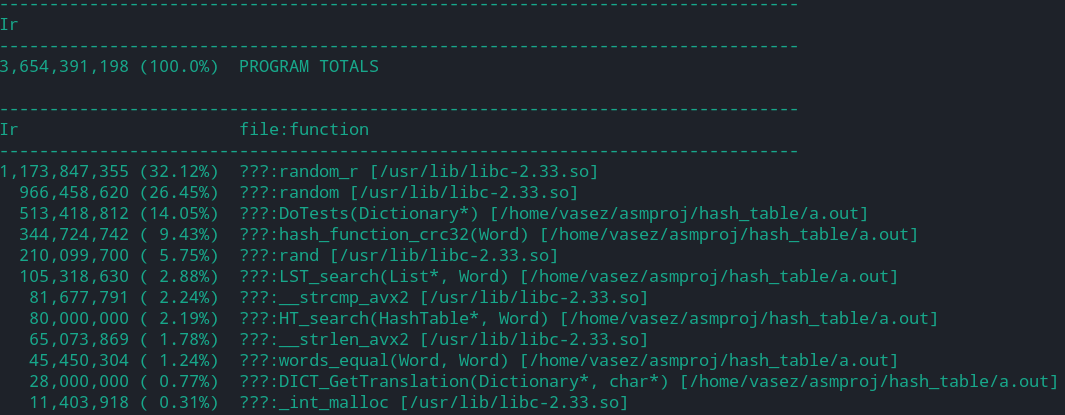
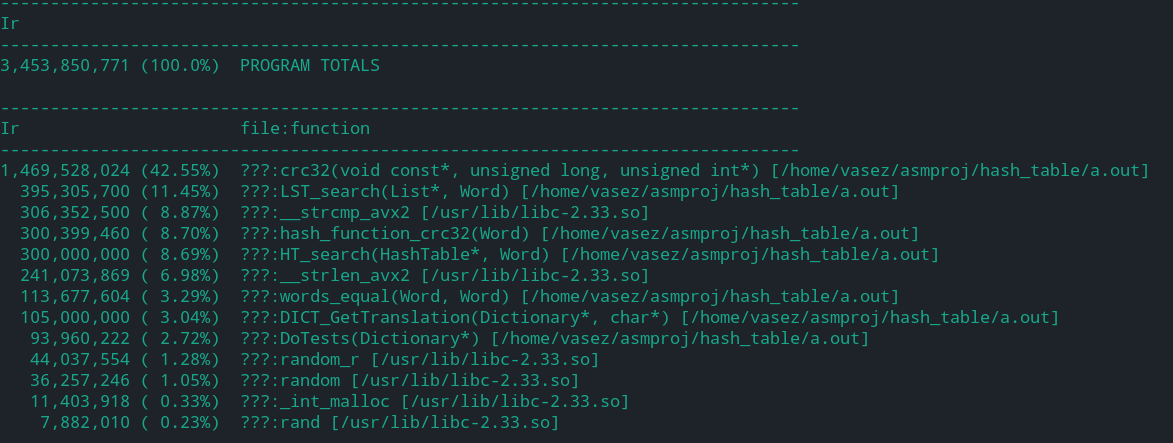
yeah

diff --git a/hash_functions.cpp b/hash_functions.cpp
@@ -1,5 +1,5 @@
 #include "hash_functions.h"
-#include <nmmintrin.h>
+//#include <nmmintrin.h>
 
 
 size_t ror(size_t x);
@@ -63,7 +63,7 @@ size_t hash_function_rol(Word word) {
 //   return r ^ (uint32_t)0xFF000000L;
 // }
 
-// const uint32_t crc_table[256] = {3523407757,2768625435,1007455905,1259060791,3580832660,2724731650,996231864,1281784366,3705235391,2883475241,852952723,1171273221,3686048678,2897449776,901431946,1119744540,3484811241,3098726271,565944005,1455205971,3369614320,3219065702,651582172,1372678730,3245242331,3060352845,794826487,1483155041,3322131394,2969862996,671994606,1594548856,3916222277,2657877971,123907689,1885708031,3993045852,2567322570,1010288,1997036262,3887548279,2427484129,163128923,2126386893,3772416878,2547889144,248832578,2043925204,4108050209,2212294583,450215437,1842515611,4088798008,2226203566,498629140,1790921346,4194326291,2366072709,336475711,1661535913,4251816714,2322244508,325317158,1684325040,2766056989,3554254475,1255198513,1037565863,2746444292,3568589458,1304234792,985283518,2852464175,3707901625,1141589763,856455061,2909332022,3664761504,1130791706,878818188,3110715001,3463352047,1466425173,543223747,3187964512,3372436214,1342839628,655174618,3081909835,3233089245,1505515367,784033777,2967466578,3352871620,1590793086,701932520,2679148245,3904355907,1908338681,112844655,2564639436,4024072794,1993550816,30677878,2439710439,3865851505,2137352139,140662621,2517025534,3775001192,2013832146,252678980,2181537457,4110462503,1812594589,453955339,2238339752,4067256894,1801730948,476252946,2363233923,4225443349,1657960367,366298937,2343686810,4239843852,1707062198,314082080,1069182125,1220369467,3518238081,2796764439,953657524,1339070498,3604597144,2715744526,828499103,1181144073,3748627891,2825434405,906764422,1091244048,3624026538,2936369468,571309257,1426738271,3422756325,3137613171,627095760,1382516806,3413039612,3161057642,752284923,1540473965,3268974039,3051332929,733688034,1555824756,3316994510,2998034776,81022053,1943239923,3940166985,2648514015,62490748,1958656234,3988253008,2595281350,168805463,2097738945,3825313147,2466682349,224526414,2053451992,3815530850,2490061300,425942017,1852075159,4151131437,2154433979,504272920,1762240654,4026595636,2265434530,397988915,1623188645,4189500703,2393998729,282398762,1741824188,4275794182,2312913296,1231433021,1046551979,2808630289,3496967303,1309403428,957143474,2684717064,3607279774,1203610895,817534361,2847130659,3736401077,1087398166,936857984,2933784634,3654889644,1422998873,601230799,3135200373,3453512931,1404893504,616286678,3182598252,3400902906,1510651243,755860989,3020215367,3271812305,1567060338,710951396,3010007134,3295551688,1913130485,84884835,2617666777,3942734927,1969605100,40040826,2607524032,3966539862,2094237127,198489425,2464015595,3856323709,2076066270,213479752,2511347954,3803648100,1874795921,414723335,2175892669,4139142187,1758648712,534112542,2262612132,4057696306,1633981859,375629109,2406151311,4167943193,1711886778,286155052,2282172566,4278190080};
+const uint32_t crc_table[256] = {3523407757,2768625435,1007455905,1259060791,3580832660,2724731650,996231864,1281784366,3705235391,2883475241,852952723,1171273221,3686048678,2897449776,901431946,1119744540,3484811241,3098726271,565944005,1455205971,3369614320,3219065702,651582172,1372678730,3245242331,3060352845,794826487,1483155041,3322131394,2969862996,671994606,1594548856,3916222277,2657877971,123907689,1885708031,3993045852,2567322570,1010288,1997036262,3887548279,2427484129,163128923,2126386893,3772416878,2547889144,248832578,2043925204,4108050209,2212294583,450215437,1842515611,4088798008,2226203566,498629140,1790921346,4194326291,2366072709,336475711,1661535913,4251816714,2322244508,325317158,1684325040,2766056989,3554254475,1255198513,1037565863,2746444292,3568589458,1304234792,985283518,2852464175,3707901625,1141589763,856455061,2909332022,3664761504,1130791706,878818188,3110715001,3463352047,1466425173,543223747,3187964512,3372436214,1342839628,655174618,3081909835,3233089245,1505515367,784033777,2967466578,3352871620,1590793086,701932520,2679148245,3904355907,1908338681,112844655,2564639436,4024072794,1993550816,30677878,2439710439,3865851505,2137352139,140662621,2517025534,3775001192,2013832146,252678980,2181537457,4110462503,1812594589,453955339,2238339752,4067256894,1801730948,476252946,2363233923,4225443349,1657960367,366298937,2343686810,4239843852,1707062198,314082080,1069182125,1220369467,3518238081,2796764439,953657524,1339070498,3604597144,2715744526,828499103,1181144073,3748627891,2825434405,906764422,1091244048,3624026538,2936369468,571309257,1426738271,3422756325,3137613171,627095760,1382516806,3413039612,3161057642,752284923,1540473965,3268974039,3051332929,733688034,1555824756,3316994510,2998034776,81022053,1943239923,3940166985,2648514015,62490748,1958656234,3988253008,2595281350,168805463,2097738945,3825313147,2466682349,224526414,2053451992,3815530850,2490061300,425942017,1852075159,4151131437,2154433979,504272920,1762240654,4026595636,2265434530,397988915,1623188645,4189500703,2393998729,282398762,1741824188,4275794182,2312913296,1231433021,1046551979,2808630289,3496967303,1309403428,957143474,2684717064,3607279774,1203610895,817534361,2847130659,3736401077,1087398166,936857984,2933784634,3654889644,1422998873,601230799,3135200373,3453512931,1404893504,616286678,3182598252,3400902906,1510651243,755860989,3020215367,3271812305,1567060338,710951396,3010007134,3295551688,1913130485,84884835,2617666777,3942734927,1969605100,40040826,2607524032,3966539862,2094237127,198489425,2464015595,3856323709,2076066270,213479752,2511347954,3803648100,1874795921,414723335,2175892669,4139142187,1758648712,534112542,2262612132,4057696306,1633981859,375629109,2406151311,4167943193,1711886778,286155052,2282172566,4278190080};
 
 // void crc32(const void *data, size_t n_bytes, uint32_t* crc) {
 //     // static uint32_t table[0x100];
@@ -77,37 +77,48 @@ size_t hash_function_rol(Word word) {
 //     }
 // }
 
-asm(".intel_syntax noprefix\n"
-".globl hash_function_crc32\n"
-    ".type hash_function_crc32, @function\n"
-    "hash_function_crc32:\n"
-    "xor rax, rax\n"
-    "xor rdx, rdx\n"
-    "push rdi\n"
-    "call strlen@PLT\n"
-    "mov edx, eax\n"
-    "pop rdi\n"
-    "xor rax, rax\n"
-    "crcloop:\n"
-        "cmp rdx, 8\n"
-        "jae Crc64\n"
-        "crclooplow:"
-        "cmp rdx, 0\n"
-        "je crcloopexit\n"
-        "crc32 rax, byte ptr [rdi]\n"
-        "inc rdi\n"
-        "dec rdx\n"
-        "jmp crclooplow\n"
-        "Crc64:\n"
-        "crc32 rax, qword ptr [rdi]\n"
-        "add rdi, 8\n"
-        "sub rdx, 8\n"
-        "jmp crcloop\n"
-    "crcloopexit:\n"
-    //"xor rax, rax\n"
-    "ret\n"
-    ".att_syntax noprefix\n"
-);
+// asm(".intel_syntax noprefix\n"
+// ".globl hash_function_crc32\n"
+//     ".type hash_function_crc32, @function\n"
+//     "hash_function_crc32:\n"
+//     "xor rax, rax\n"
+//     "xor rdx, rdx\n"
+//     "push rdi\n"
+//     "call strlen@PLT\n"
+//     "mov edx, eax\n"
+//     "pop rdi\n"
+//     "xor rax, rax\n"
+//     "crcloop:\n"
+//         "cmp rdx, 8\n"
+//         "jae Crc64\n"
+//         "crclooplow:"
+//         "cmp rdx, 0\n"
+//         "je crcloopexit\n"
+//         "crc32 rax, byte ptr [rdi]\n"
+//         "inc rdi\n"
+//         "dec rdx\n"
+//         "jmp crclooplow\n"
+//         "Crc64:\n"
+//         "crc32 rax, qword ptr [rdi]\n"
+//         "add rdi, 8\n"
+//         "sub rdx, 8\n"
+//         "jmp crcloop\n"
+//     "crcloopexit:\n"
+//     //"xor rax, rax\n"
+//     "ret\n"
+//     ".att_syntax noprefix\n"
+// );
+
+void crc32(const void *data, size_t n_bytes, uint32_t* crc) {
+    for(size_t i = 0; i < n_bytes; ++i)
+        *crc = crc_table[(uint8_t)*crc ^ ((uint8_t*)data)[i]] ^ *crc >> 8;
+}
+
+size_t hash_function_crc32(Word word) {
+    uint32_t crc_ans = 0;
+    crc32(word.word, strlen(word.word), &crc_ans);
+    return crc_ans;
+}
 
 // size_t hash_function_crc32(Word word) {
 //     uint32_t crc_ans = 0;

diff --git a/list.cpp b/list.cpp
@@ -29,54 +29,54 @@ void LST_Destroy(List* list) {
 
 //rdi - List*, rsi - word
 //to return: rdx:rax
-asm(".intel_syntax noprefix\n"
-".globl LST_search\n"
-    ".type LST_search, @function\n"
-    "LST_search:\n"
-    "mov r10, [rdi]\n" // bucket size
-    "shl r10, 3\n" // bucket size * word size / 2 (8)
-    "mov r8, 0\n" // bucket iterator * word size / 2 (8)
-    "mov r9, rdi\n"
-    "LstSearchLoop:\n"
-        "cmp r8, r10\n"
-        "je LstSearchLoopExit\n"
-        "mov rdi, [r9 + 16]\n" // array of value_type*
-        "mov rdi, [rdi + r8 * 2]\n" // word, not translation
-        "mov rdx, rsi\n"            // word from argument
-        "call [r9 + 24]\n"         // looks like pointer on eq function
-        // rax - result - equal or not
-        "cmp rax, 0\n"              // 0 - false, another - true
-        "je LstSearchWrongWord\n"
-        "mov rdi, [r9 + 16]\n"     // array
-        "mov rax, [rdi + r8 * 2]\n" // word
-        "mov r9, 8\n"
-        "shl r8, 1\n" // r8 * 2
-        "add r8, r9\n" // r8 * 3
-        "mov rdx, [rdi + r8]\n"   // translation
-        "ret\n"
-        "LstSearchWrongWord:\n"
-        "add r8, 8\n"
-        "jmp LstSearchLoop\n"
-    "LstSearchLoopExit:\n"
-    "xor rax, rax\n"
-    "xor rdx, rdx\n"
-    "ret\n"
-    ".att_syntax noprefix\n"
-);
+// asm(".intel_syntax noprefix\n"
+// ".globl LST_search\n"
+//     ".type LST_search, @function\n"
+//     "LST_search:\n"
+//     "mov r10, [rdi]\n" // bucket size
+//     "shl r10, 3\n" // bucket size * word size / 2 (8)
+//     "mov r8, 0\n" // bucket iterator * word size / 2 (8)
+//     "mov r9, rdi\n"
+//     "LstSearchLoop:\n"
+//         "cmp r8, r10\n"
+//         "je LstSearchLoopExit\n"
+//         "mov rdi, [r9 + 16]\n" // array of value_type*
+//         "mov rdi, [rdi + r8 * 2]\n" // word, not translation
+//         "mov rdx, rsi\n"            // word from argument
+//         "call [r9 + 24]\n"         // looks like pointer on eq function
+//         // rax - result - equal or not
+//         "cmp rax, 0\n"              // 0 - false, another - true
+//         "je LstSearchWrongWord\n"
+//         "mov rdi, [r9 + 16]\n"     // array
+//         "mov rax, [rdi + r8 * 2]\n" // word
+//         "mov r9, 8\n"
+//         "shl r8, 1\n" // r8 * 2
+//         "add r8, r9\n" // r8 * 3
+//         "mov rdx, [rdi + r8]\n"   // translation
+//         "ret\n"
+//         "LstSearchWrongWord:\n"
+//         "add r8, 8\n"
+//         "jmp LstSearchLoop\n"
+//     "LstSearchLoopExit:\n"
+//     "xor rax, rax\n"
+//     "xor rdx, rdx\n"
+//     "ret\n"
+//     ".att_syntax noprefix\n"
+// );
 
-// value_type LST_search(List* list, value_type value) {
-//     //printf("searching for %s kek %zu lol\n", value.word, list->length);
-//     for (size_t i = 0; i < list->length; ++i) {
-//         //printf("%d\n",(int)list->equality_function({"luck", NULL}, value));
-//         //printf("%d\n",(int)list->equality_function({"luck", NULL}, list->array[0]));
-//         //printf("%d\n",(int)list->equality_function(list->array[i], value));
-//         //printf("bruh %zu %s\n", i,  list->array[i].word);
-//         if (list->equality_function(list->array[i], value)) {
-//             return list->array[i];
-//         }
-//     }
-//     return NULL_WORD;
-// }
+value_type LST_search(List* list, value_type value) {
+    //printf("searching for %s kek %zu lol\n", value.word, list->length);
+    for (size_t i = 0; i < list->length; ++i) {
+        //printf("%d\n",(int)list->equality_function({"luck", NULL}, value));
+        //printf("%d\n",(int)list->equality_function({"luck", NULL}, list->array[0]));
+        //printf("%d\n",(int)list->equality_function(list->array[i], value));
+        //printf("bruh %zu %s\n", i,  list->array[i].word);
+        if (list->equality_function(list->array[i], value)) {
+            return list->array[i];
+        }
+    }
+    return NULL_WORD;
+}
 
 void LST_add(List* list, value_type value) {
     assert(list);

diff --git a/translation.cpp b/translation.cpp
@@ -1,5 +1,9 @@
 #include "translation.h"
 #include "stdio.h"
+
+bool words_equal(Word word1, Word word2) {
+    return strcmp(word1.word, word2.word) == 0;
+}
     //assert(word1.word);
     //assert(word2.word);
     // printf("yay compare\n");
@@ -8,28 +12,28 @@
 
 // rdi, rdx - arguments
 // damage rcx, rax, rdi, rdx
-asm(".intel_syntax noprefix\n"
-".text\n"
-".globl words_equal\n"
-    ".type words_equal, @function\n"
-    "words_equal:\n"
-    "xor rcx, rcx\n"
-    "StrcmpLoop:\n"
-        "xor rcx, rcx\n"
-        "mov cl, byte ptr [rdi]\n"
-        "cmp cl, byte ptr [rdx]\n"
-        "jne LoopExit\n"
-        "inc rdi\n"
-        "inc rdx\n"
-        "cmp cl, 0\n"
-        "jne StrcmpLoop\n"
-        "mov rax, 0xffff\n"
-        "ret\n"
-    "LoopExit:\n"
-    "xor rax, rax\n"
-    "ret\n"
-    ".att_syntax noprefix\n"
-);
+// asm(".intel_syntax noprefix\n"
+// ".text\n"
+// ".globl words_equal\n"
+//     ".type words_equal, @function\n"
+//     "words_equal:\n"
+//     "xor rcx, rcx\n"
+//     "StrcmpLoop:\n"
+//         "xor rcx, rcx\n"
+//         "mov cl, byte ptr [rdi]\n"
+//         "cmp cl, byte ptr [rdx]\n"
+//         "jne LoopExit\n"
+//         "inc rdi\n"
+//         "inc rdx\n"
+//         "cmp cl, 0\n"
+//         "jne StrcmpLoop\n"
+//         "mov rax, 0xffff\n"
+//         "ret\n"
+//     "LoopExit:\n"
+//     "xor rax, rax\n"
+//     "ret\n"
+//     ".att_syntax noprefix\n"
+// );
 
 void DestroyElement(Word word) {
     free(word.word);

diff --git a/list.h b/list.h
@@ -17,7 +17,7 @@ struct List {
 
 List*      LST_Create(bool (*equality_function)(value_type val1, value_type val2));
 void       LST_Destroy(List* list);
-extern "C" value_type LST_search(List* list, value_type value);
+value_type LST_search(List* list, value_type value);
 void       LST_add(List* list, value_type value);
 
 #endif

diff --git a/hash_functions.h b/hash_functions.h
@@ -11,7 +11,7 @@ size_t hash_function_first_ascii(Word word);
 size_t hash_function_sum_ascii(Word word);
 size_t hash_function_ror(Word word);
 size_t hash_function_rol(Word word);
-extern "C" size_t hash_function_crc32(Word word);
+size_t hash_function_crc32(Word word);
 // size_t hash_function_crc32(Word word);
 
 #endif

diff --git a/translation.h b/translation.h
@@ -11,7 +11,7 @@ struct Word {
 
 const Word NULL_WORD = {NULL, NULL};
 
-extern "C" bool words_equal(Word word1, Word word2);
+bool words_equal(Word word1, Word word2);
 void DestroyElement(Word word);
 
 #endif

diff --git a/test_speed.cpp b/test_speed.cpp
@@ -2,7 +2,7 @@
 #include "html_translator.h"
 #include "hash_functions.h"
 
-const int test_num = 30000;
+const int test_num = 150000;
 const int max_word_len = 20;
 
 void DoTests(Dictionary* dict);
